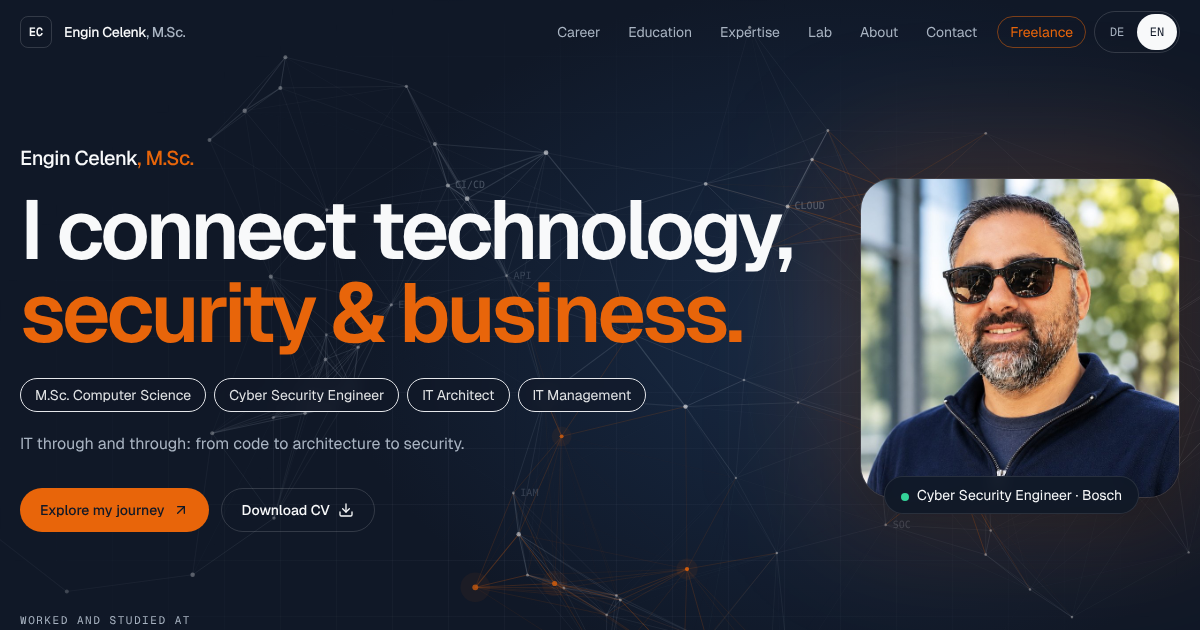
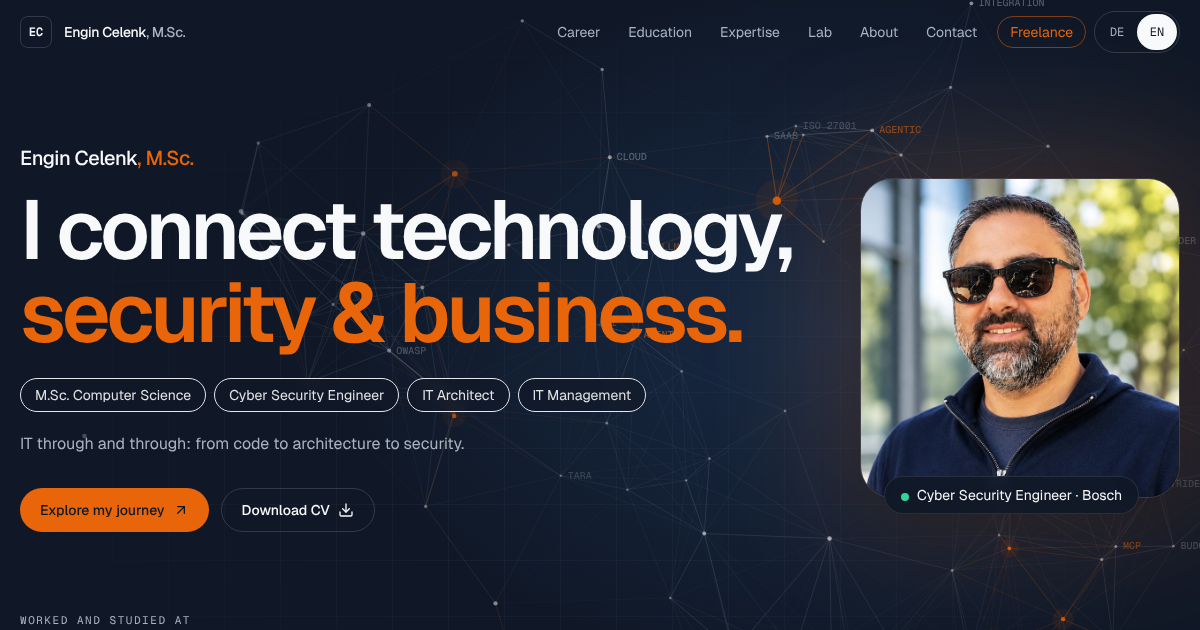
Network animation: keywords from the three pillars and the AI vertical (#14)
22 keywords (architecture, cyber security, IT management, AI) interleaved
across the network; AI keywords drawn in the signal colour.

Claude-Session: https://claude.ai/code/session_018gVZrNA2yKwrihmWWjaEfV

diff --git a/src/components/NetworkCanvas.jsx b/src/components/NetworkCanvas.jsx
@@ -3,7 +3,15 @@ import { useEffect, useRef } from "react";
 /* An abstract network of connected systems. Points live in 3D; the view
    rotates slowly and tilts with scroll, so the perspective changes as the
    visitor moves down the page. A few nodes carry the signal colour. */
-const LABELS = ["API", "IAM", "TARA", "CLOUD", "DATA", "EDGE", "SOC", "CI/CD"];
+/* Keywords from the three pillars and the AI vertical, interleaved so every
+   screen size shows a balanced mix. ai: drawn in the signal colour. */
+const LABELS = [
+  ["MICROSERVICES"], ["TARA"], ["NGTM"], ["AGENTS", 1],
+  ["CLOUD"], ["ZERO TRUST"], ["E2E"], ["LLM", 1],
+  ["API"], ["STRIDE"], ["BUDGET"], ["MCP", 1],
+  ["SAAS"], ["NIST CSF"], ["STAKEHOLDER"], ["AGENTIC", 1],
+  ["SC3"], ["ISO 27001"], ["PROGRAM"], ["INTEGRATION"], ["OWASP"], ["SCRUM"]
+];
 
 export default function NetworkCanvas() {
   const ref = useRef(null);
@@ -17,11 +25,12 @@ export default function NetworkCanvas() {
     const count = () => (window.innerWidth < 640 ? 46 : window.innerWidth < 1100 ? 70 : 96);
     let nodes = [];
     const seed = () => {
-      nodes = Array.from({ length: count() }, (_, i) => {
+      const n0 = count(), step = Math.max(3, Math.floor(n0 / LABELS.length));
+      nodes = Array.from({ length: n0 }, (_, i) => {
         const r = 0.55 + Math.random() * 0.45, th = Math.random() * Math.PI * 2, ph = Math.acos(2 * Math.random() - 1);
         return {
           x: r * Math.sin(ph) * Math.cos(th) * 1.5, y: r * Math.cos(ph) * 0.85, z: r * Math.sin(ph) * Math.sin(th),
-          sig: i % 13 === 0, label: i % 11 === 0 ? LABELS[(i / 11) % LABELS.length | 0] : null, ph: Math.random() * 6.28
+          sig: i % 13 === 0, label: i % step === 0 && i / step < LABELS.length ? LABELS[i / step] : null, ph: Math.random() * 6.28
         };
       });
     };
@@ -75,8 +84,9 @@ export default function NetworkCanvas() {
         ctx.beginPath(); ctx.arc(sx, sy, r, 0, 6.283); ctx.fill();
         if (n.label && w > 640) {
           ctx.font = "500 10px 'Geist Mono Variable', ui-monospace, monospace";
-          ctx.fillStyle = `rgba(169,180,194,${0.18 + 0.35 * (p - 0.6)})`;
-          ctx.fillText(n.label, sx + 7, sy + 3);
+          const al = 0.2 + 0.4 * (p - 0.6);
+          ctx.fillStyle = n.label[1] ? `rgba(232,101,10,${al + 0.1})` : `rgba(169,180,194,${al})`;
+          ctx.fillText(n.label[0], sx + 7, sy + 3);
         }
       });
       if (!reduce && visible) raf = requestAnimationFrame(draw);
